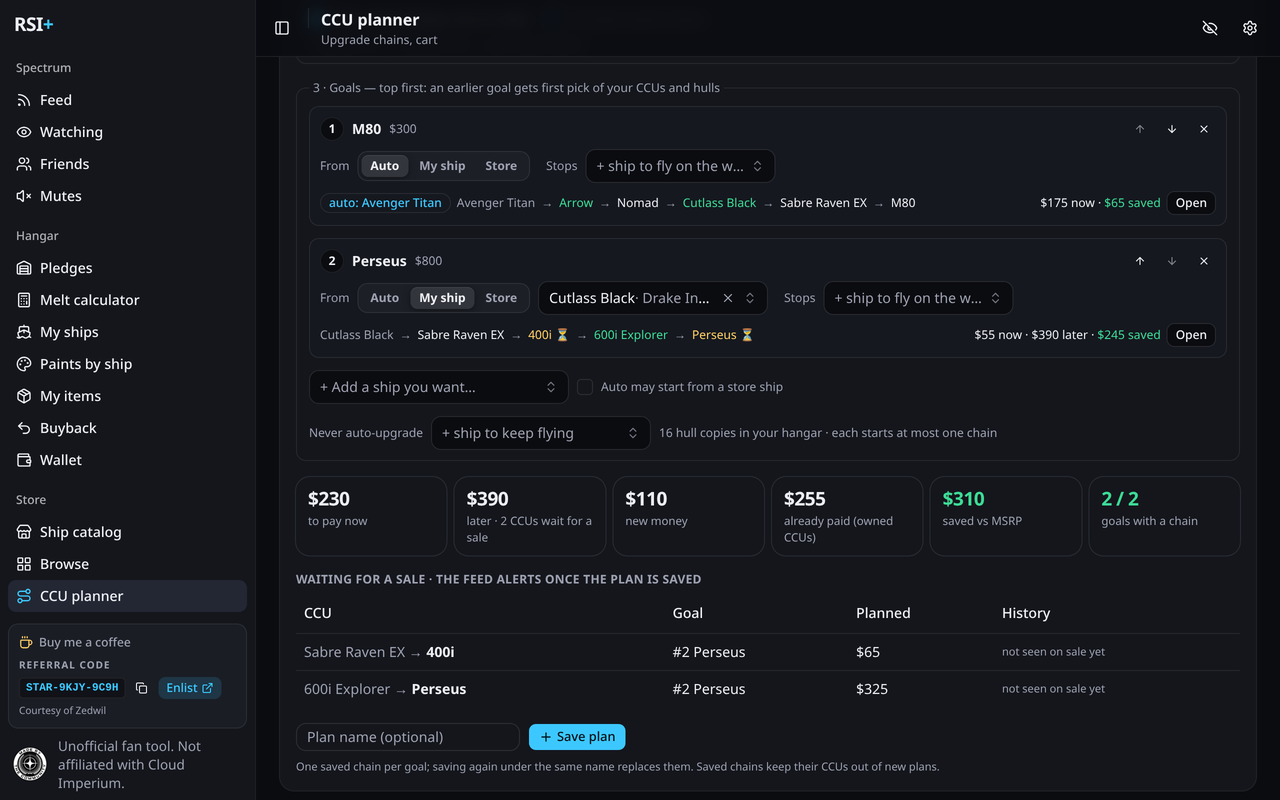
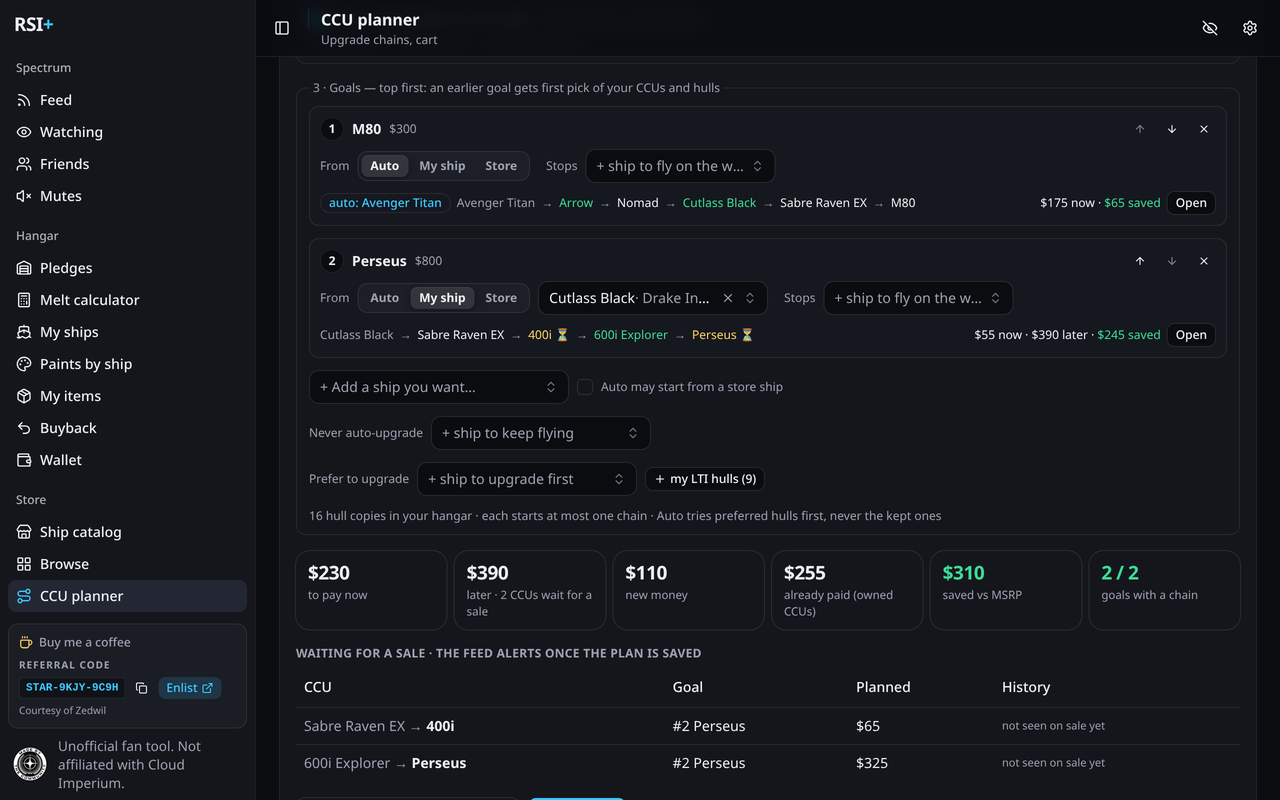
feat(ccu): Kraken, Javelin, Idris-M as plannable hulls (wiki MSRP); fleet plan prefer-to-upgrade list with LTI shortcut

diff --git a/src/components/CcuFleet.svelte b/src/components/CcuFleet.svelte
@@ -27,6 +27,7 @@
     ships,
     mine,
     hulls,
+    lti = [],
     owned,
     opt,
     sales,
@@ -39,6 +40,8 @@
     mine: CatalogShip[];
     /** Hull copies you own (`ownedHulls`). */
     hulls: { id: number; count: number }[];
+    /** Hulls you own on an LTI pledge — offered as "prefer" in one click (LTI tokens). */
+    lti?: number[];
     owned: OwnedCcu[];
     /** Planner options (objective, warbond, buyback…, saved-chain exclusions) shared with the single planner. */
     opt: PlanOptions;
@@ -51,24 +54,26 @@
 
   let goals = $state<Goal[]>([]);
   let keep = $state<number[]>([]);
+  let prefer = $state<number[]>([]);
   let storeStart = $state(false);
   let loaded = $state(false);
   $effect(() => {
     ccuGoalsItem.getValue().then((v) => {
       goals = v.goals;
       keep = v.keep;
+      prefer = v.prefer ?? [];
       storeStart = v.storeStart;
       loaded = true;
     });
   });
   $effect(() => {
-    const v = { goals: $state.snapshot(goals), keep: $state.snapshot(keep), storeStart };
+    const v = { goals: $state.snapshot(goals), keep: $state.snapshot(keep), prefer: $state.snapshot(prefer), storeStart };
     if (loaded) ccuGoalsItem.setValue(v);
   });
 
   const byId = $derived(new Map(ships.map((s) => [s.id, s])));
   const name = (id: number | null) => (id == null ? 'Auto' : id === STORE_START ? 'Store' : (byId.get(id)?.name ?? `#${id}`));
-  const fleet = $derived(planFleet(ships, owned, goals, opt, { hulls, keep, storeStart }));
+  const fleet = $derived(planFleet(ships, owned, goals, opt, { hulls, keep, prefer, storeStart }));
   const payNow = $derived(fleet.total - fleet.later);
   /** Every CCU the plan waits for, cheapest first: hull, which goal, planned cost, when last seen on sale. */
   const waiting = $derived(
@@ -107,7 +112,12 @@
     edit(i, { fromId: s === 'auto' ? null : s === 'store' ? STORE_START : (mine.find((m) => m.msrp < (byId.get(g.targetId)?.msrp ?? 0))?.id ?? mine[0]?.id ?? null) });
   }
   const sortedShips = $derived([...ships].sort((a, b) => a.name.localeCompare(b.name)));
+  // A hull is in at most one of the two lists: adding it to one takes it out of the other.
   const keepable = $derived(mine.filter((m) => !keep.includes(m.id)));
+  const preferable = $derived(mine.filter((m) => !prefer.includes(m.id)));
+  const addKeep = (id: number) => ((keep = [...keep, id]), (prefer = prefer.filter((x) => x !== id)));
+  const addPrefer = (ids: number[]) => ((prefer = [...new Set([...prefer, ...ids])]), (keep = keep.filter((x) => !ids.includes(x))));
+  const ltiToAdd = $derived(lti.filter((id) => !prefer.includes(id) && mine.some((m) => m.id === id)));
 
   // ---- save ----
   let planName = $state('');
@@ -205,9 +215,17 @@
       {#each keep as k (k)}
         <Badge variant="secondary" class="gap-1 pr-0.5">{name(k)}<Button variant="ghost" size="icon-xs" class="size-4" aria-label={`Allow ${name(k)}`} onclick={() => (keep = keep.filter((x) => x !== k))}><X /></Button></Badge>
       {/each}
-      <div class="w-[220px]"><ShipSelect ships={keepable} mine={keepable} onlyMine bind:value={() => picks.keep ?? null, (v) => (picks.keep = v)} price={false} onpick={(id) => (id != null && (keep = [...keep, id]), (picks.keep = null))} ariaLabel="Ship to keep" placeholder="+ ship to keep flying" /></div>
-      <span class="text-muted-foreground">{hulls.reduce((n, h) => n + h.count, 0)} hull copies in your hangar · each starts at most one chain</span>
+      <div class="w-[220px]"><ShipSelect ships={keepable} mine={keepable} onlyMine bind:value={() => picks.keep ?? null, (v) => (picks.keep = v)} price={false} onpick={(id) => (id != null && addKeep(id), (picks.keep = null))} ariaLabel="Ship to keep" placeholder="+ ship to keep flying" /></div>
     </div>
+    <div class="flex flex-wrap items-center gap-2 text-xs">
+      <span class="text-muted-foreground" title="Auto upgrades one of these first whenever it gets to the target — cheap LTI tokens, ships you don't fly">Prefer to upgrade</span>
+      {#each prefer as k (k)}
+        <Badge variant="secondary" class="text-success gap-1 pr-0.5">{name(k)}<Button variant="ghost" size="icon-xs" class="size-4" aria-label={`Stop preferring ${name(k)}`} onclick={() => (prefer = prefer.filter((x) => x !== k))}><X /></Button></Badge>
+      {/each}
+      <div class="w-[220px]"><ShipSelect ships={preferable} mine={preferable} onlyMine bind:value={() => picks.prefer ?? null, (v) => (picks.prefer = v)} price={false} onpick={(id) => (id != null && addPrefer([id]), (picks.prefer = null))} ariaLabel="Ship to upgrade first" placeholder="+ ship to upgrade first" /></div>
+      {#if ltiToAdd.length}<Button variant="outline" size="xs" onclick={() => addPrefer(ltiToAdd)} title={ltiToAdd.map((id) => name(id)).join(', ')}><Plus /> my LTI hulls ({ltiToAdd.length})</Button>{/if}
+    </div>
+    <span class="text-muted-foreground text-xs">{hulls.reduce((n, h) => n + h.count, 0)} hull copies in your hangar · each starts at most one chain · Auto tries preferred hulls first, never the kept ones</span>
   </fieldset>
 
   {#if goals.length}

diff --git a/src/components/CcuPanel.svelte b/src/components/CcuPanel.svelte
@@ -93,6 +93,8 @@
   const byId = $derived(new Map(ships.map((s) => [s.id, s])));
   const mine = $derived(ownedShips(hangar?.pledges ?? [], ships));
   const hulls = $derived(ownedHulls(hangar?.pledges ?? [], ships));
+  /** Hulls on LTI pledges (LTI tokens): one click to prefer them in a fleet plan. */
+  const ltiHulls = $derived(ownedHulls((hangar?.pledges ?? []).filter((p) => p.lti), ships).map((h) => h.id));
   let stopPick = $state<number | null>(null);
   const sortedShips = $derived([...ships].sort((a, b) => a.name.localeCompare(b.name)));
   const ccus = $derived(ownedCcus(hangar?.pledges ?? [], buyback?.items ?? [], ships));
@@ -222,7 +224,7 @@
   function link(s: Step): string | null {
     if (s.kind === 'owned' && hangar && s.ref != null) return hangarUrl(hangar.pledges, s.ref);
     if (s.kind === 'buyback' && s.ref != null) return buybackUrl.get(s.ref) ?? null;
-    if (s.kind === 'standalone' || s.kind === 'future') return byId.get(s.toId)?.link ?? null;
+    if (s.kind === 'standalone' || s.kind === 'future') return byId.get(s.toId)?.msrpSource ? null : (byId.get(s.toId)?.link ?? null);
     return UPGRADES;
   }
   const forceOf = (ref: number): 'include' | 'exclude' | '' => (opt.include.includes(ref) ? 'include' : opt.exclude.includes(ref) ? 'exclude' : '');
@@ -424,7 +426,7 @@
       </fieldset>
 
       {#if planner === 'fleet'}
-        <CcuFleet {ships} {mine} {hulls} owned={ccus.owned} opt={effective} {sales} {chains} {persist} onopen={openGoal} />
+        <CcuFleet {ships} {mine} {hulls} lti={ltiHulls} owned={ccus.owned} opt={effective} {sales} {chains} {persist} onopen={openGoal} />
       {:else}
       <div class="flex flex-wrap gap-4">
         <fieldset class="border-border m-0 grid min-w-0 flex-[1_1_300px] gap-2 rounded-lg border px-3 py-2.5">
@@ -467,7 +469,7 @@
         {:else}
           {#if planned.ahead}
             <p class="border-warning/40 bg-warning/10 m-0 rounded-lg border px-3 py-2 text-sm">
-              <strong>Planned ahead.</strong> Nothing on sale today gets to the {name(toId)} — {byId.get(toId)?.ccu.length ? 'its CCUs are sold out or excluded' : 'RSI sells no CCU to it right now'}{byId.get(toId)?.flyable === 'Concept' ? ' (concept ship: CCUs and sales come with events)' : ''}. Steps marked <em>Later</em> are priced at MSRP, to buy when the CCU returns ({seen(toId)}). Save the chain and the Feed tells you when it is in the store.
+              <strong>Planned ahead.</strong> Nothing on sale today gets to the {name(toId)} — {byId.get(toId)?.msrpSource ? `RSI's upgrade catalog doesn't list it at all (MSRP ${usd(byId.get(toId)?.msrp ?? 0)} from starcitizen.tools; RSI sells it in rare packages / events)` : byId.get(toId)?.ccu.length ? 'its CCUs are sold out or excluded' : 'RSI sells no CCU to it right now'}{byId.get(toId)?.flyable === 'Concept' ? ' (concept ship: CCUs and sales come with events)' : ''}. Steps marked <em>Later</em> are priced at MSRP, to buy when the CCU returns ({seen(toId)}). Save the chain and the Feed tells you when it is in the store.
             </p>
           {/if}
           <div class="grid grid-cols-[repeat(auto-fit,minmax(150px,1fr))] gap-2">

diff --git a/tests/ccu.test.ts b/tests/ccu.test.ts
@@ -1,6 +1,6 @@
 import { describe, expect, it } from 'vitest';
 import { chainEvents, DEFAULT_PLAN_OPTIONS, ownedCcus, ownedHulls, ownedShips, plan, planFleet, reservedRefs, STORE_START, type OwnedCcu, type PlanOptions, type SavedChain } from '@/lib/ccu';
-import { lastSale, lowestOffer, matchShip, recordSales, wishlistEvents, type CatalogShip, type Sku } from '@/lib/store';
+import { lastSale, lowestOffer, matchShip, recordSales, wishlistEvents, withExtraShips, type CatalogShip, type Sku } from '@/lib/store';
 
 const sku = (title: string, price: number, extra: Partial<Sku> = {}): Sku => ({ id: price, title, price, available: true, stock: null, ...extra });
 const ship = (id: number, name: string, msrp: number, ccu: Sku[] = [], standalone: Sku[] = []): CatalogShip => ({
@@ -251,5 +251,27 @@ describe('plan ahead (long-term goals)', () => {
     expect(f.legs[0]!.plan!.steps.at(-1)).toMatchObject({ toId: 6, kind: 'future' });
     expect(f.legs[1]).toMatchObject({ ahead: false }); // on sale today → no waiting
     expect(f.legs[1]!.plan!.waits).toBe(0);
+  });
+
+  it('fleet plan: auto upgrades a preferred hull (LTI token) first, even when another saves more', () => {
+    const goals = [{ id: 'd', fromId: null, targetId: 4, via: [] }];
+    const hulls = [{ id: 1, count: 1 }, { id: 2, count: 1 }];
+    const free = planFleet(ships, [], goals, o({ warbond: false }), { hulls });
+    const pref = planFleet(ships, [], goals, o({ warbond: false }), { hulls, prefer: [2] });
+    expect(pref.legs[0]!.startId).toBe(2);
+    expect(free.legs[0]!.plan).not.toBeNull();
+    // a preferred hull that can't get there is skipped, not forced
+    const up = planFleet(ships, [], [{ id: 'b', fromId: null, targetId: 2, via: [] }], o({}), { hulls: [{ id: 1, count: 1 }, { id: 3, count: 1 }], prefer: [3] });
+    expect(up.legs[0]!.startId).toBe(1);
+  });
+
+  it('extra hulls RSI does not list (Kraken, Javelin) join the catalog and plan ahead', () => {
+    const all = withExtraShips(ships);
+    const kraken = all.find((s) => s.name === 'Kraken')!;
+    expect(kraken).toMatchObject({ msrp: 165000, msrpSource: 'wiki' });
+    expect(withExtraShips([...ships, { ...kraken, id: 999, msrpSource: undefined }]).filter((s) => s.name === 'Kraken')).toHaveLength(1);
+    expect(matchShip('Kraken Privateer', all)?.name).toBe('Kraken Privateer');
+    const p = plan(all, [], 4, kraken.id, o({ planAhead: true }))!;
+    expect(p.steps.at(-1)).toMatchObject({ toId: kraken.id, kind: 'future', cost: 165000 - 24000 });
   });
 });

diff --git a/src/lib/ccu.ts b/src/lib/ccu.ts
@@ -317,6 +317,8 @@ export interface FleetOptions {
   hulls: { id: number; count: number }[];
   /** Hulls an auto goal never upgrades (ones you want to keep flying). */
   keep?: number[];
+  /** Hulls an auto goal upgrades first when one of them gets there (cheap LTI tokens, ships you don't fly). */
+  prefer?: number[];
   /** An auto goal may start by buying a ship from the store. */
   storeStart?: boolean;
 }
@@ -347,14 +349,19 @@ export function planFleet(ships: CatalogShip[], owned: OwnedCcu[], goals: Goal[]
     const cands = goal.fromId != null ? [goal.fromId] : [...free].filter(([id, n]) => n > 0 && !keep.has(id) && (byId.get(id)?.msrp ?? Infinity) < (target?.msrp ?? 0)).map(([id]) => id);
     if (goal.fromId == null && fo.storeStart) cands.push(STORE_START);
     // Today's sales first; only when no source gets there, plan ahead (waiting for the target's CCU to return).
-    for (const pass of o.planAhead ? [o] : [o, { ...o, planAhead: true }]) {
-      for (const c of cands) {
-        const p = plan(ships, owned, c, goal.targetId, pass);
-        if (p && (!best || better(p, best))) (best = p), (startId = c);
-      }
-      if (best) {
-        ahead = pass !== o;
-        break;
+    // Within a pass, preferred hulls first: the best of them wins over any other hull.
+    const pref = new Set(fo.prefer ?? []);
+    const groups = [cands.filter((c) => pref.has(c)), cands.filter((c) => !pref.has(c))];
+    search: for (const pass of o.planAhead ? [o] : [o, { ...o, planAhead: true }]) {
+      for (const group of groups) {
+        for (const c of group) {
+          const p = plan(ships, owned, c, goal.targetId, pass);
+          if (p && (!best || better(p, best))) (best = p), (startId = c);
+        }
+        if (best) {
+          ahead = pass !== o;
+          break search;
+        }
       }
     }
     if (goal.fromId == null && best && startId != null && startId !== STORE_START) free.set(startId, free.get(startId)! - 1);

diff --git a/src/lib/settings.ts b/src/lib/settings.ts
@@ -94,8 +94,8 @@ export const hangarItem = storage.defineItem<{ at: number; pledges: Pledge[]; co
 export const buybackItem = storage.defineItem<{ at: number; items: BuybackItem[]; complete?: boolean; page?: number } | null>(acct('local:buyback'), { fallback: null });
 /** Saved CCU chains (planner): the CCUs they use are kept out of new plans when *Exclude saved chains* is on. */
 export const ccuChainsItem = storage.defineItem<SavedChain[]>(acct('local:ccuChains'), { fallback: [] });
-/** Fleet plan (CCU planner, several goals): the goals in priority order, hulls never auto-upgraded, store start allowed. */
-export const ccuGoalsItem = storage.defineItem<{ goals: Goal[]; keep: number[]; storeStart: boolean }>(acct('local:ccuGoals'), { fallback: { goals: [], keep: [], storeStart: false } });
+/** Fleet plan (CCU planner, several goals): the goals in priority order, hulls never / preferably auto-upgraded, store start allowed. */
+export const ccuGoalsItem = storage.defineItem<{ goals: Goal[]; keep: number[]; prefer?: number[]; storeStart: boolean }>(acct('local:ccuGoals'), { fallback: { goals: [], keep: [], prefer: [], storeStart: false } });
 /** Pledge-store ship catalog + on-sale SKUs (public data), refreshed by the background. */
 export const catalogItem = storage.defineItem<Catalog | null>('local:catalog', { fallback: null });
 /** Per ship: when it was last seen on sale (CCU / standalone), stamped on every catalog refresh since install. */

diff --git a/src/lib/store.ts b/src/lib/store.ts
@@ -10,6 +10,7 @@
  */
 import { token } from './api';
 import { SPECTRUM_ORIGIN } from './types';
+import { EXTRA_SHIPS } from './data/extra-ships';
 
 export interface Sku {
   id: number;
@@ -35,6 +36,8 @@ export interface CatalogShip {
   standalone: Sku[];
   /** CCU target SKUs on sale right now (Standard / Warbond / limited). */
   ccu: Sku[];
+  /** `wiki`: a hull RSI's upgrade catalog doesn't list (Kraken, Javelin…), MSRP from starcitizen.tools (`EXTRA_SHIPS`). */
+  msrpSource?: 'wiki';
 }
 
 export interface Catalog {
@@ -126,7 +129,13 @@ export async function fetchCatalog(): Promise<Catalog> {
       if (s) s.ccu = t.skus.map(sku).filter((k) => k.available);
     }
   }
-  return { at: Date.now(), ships };
+  return { at: Date.now(), ships: withExtraShips(ships) };
+}
+
+/** Add the hulls RSI's upgrade catalog never lists (`EXTRA_SHIPS`) unless it lists that name itself. */
+export function withExtraShips(ships: CatalogShip[]): CatalogShip[] {
+  const have = new Set(ships.map((s) => shipKey(s.name)));
+  return [...ships, ...EXTRA_SHIPS.filter((x) => !have.has(shipKey(x.name)) && !ships.some((s) => s.id === x.id)).map((x) => ({ ...x, standalone: [], ccu: [] }))];
 }
 
 export const isWarbondSku = (k: Pick<Sku, 'title'>) => /warbond/i.test(k.title);

diff --git a/src/lib/data/extra-ships.ts b/src/lib/data/extra-ships.ts
@@ -1,0 +1,28 @@
+/**
+ * Hulls RSI's upgrade catalog (`initShipUpgrade`) never lists — sold only as rare standalone / event packages, never
+ * as a CCU target — so the planner and catalog would not know them. MSRPs are their pledge cost on starcitizen.tools
+ * (checked 2026-10-16; the Star Citizen Wiki API agrees for Javelin and Idris-M and has no price for the Kraken).
+ * Ids are negative so they never collide with RSI's; `fetchCatalog` adds one only when RSI doesn't list that name.
+ */
+import type { CatalogShip } from '../store';
+
+const extra = (id: number, name: string, manufacturer: string, focus: string, usd: number, flyable: string): CatalogShip => ({
+  id,
+  name,
+  manufacturer,
+  focus,
+  msrp: usd * 100,
+  flyable,
+  link: `https://starcitizen.tools/${name.replace(/ /g, '_')}`,
+  thumb: null,
+  standalone: [],
+  ccu: [],
+  msrpSource: 'wiki',
+});
+
+export const EXTRA_SHIPS: CatalogShip[] = [
+  extra(-9001, 'Kraken', 'Drake Interplanetary', 'Light Carrier', 1650, 'Concept'),
+  extra(-9002, 'Kraken Privateer', 'Drake Interplanetary', 'Light Carrier', 2420, 'Concept'),
+  extra(-9003, 'Javelin', 'Aegis Dynamics', 'Destroyer', 3000, 'Concept'),
+  extra(-9004, 'Idris-M', 'Aegis Dynamics', 'Frigate', 1000, 'Flight Ready'),
+];

diff --git a/src/entrypoints/background.ts b/src/entrypoints/background.ts
@@ -24,7 +24,7 @@ import {
 } from '@/lib/settings';
 import { ding } from '@/lib/sound';
 import { chainEvents } from '@/lib/ccu';
-import { fetchCatalog, fetchPaints, recordSales, wishlistEvents, type Catalog, type PaintCatalog } from '@/lib/store';
+import { fetchCatalog, fetchPaints, recordSales, wishlistEvents, withExtraShips, type Catalog, type PaintCatalog } from '@/lib/store';
 import { threadUrl } from '@/lib/types';
 import { channelEvents, friendEvents, keywordsFor, mergeEvents, threadEvents, type FeedEvent } from '@/lib/watch';
 
@@ -301,7 +301,7 @@ let catalogPromise: Promise<Catalog> | null = null;
 /** Public pledge-store catalog; cached 30 min unless `fresh`. */
 async function catalog(fresh: boolean): Promise<Catalog> {
   const cached = await catalogItem.getValue();
-  if (!fresh && cached && Date.now() - cached.at < 30 * 60_000) return cached;
+  if (!fresh && cached && Date.now() - cached.at < 30 * 60_000) return { ...cached, ships: withExtraShips(cached.ships) };
   catalogPromise ??= fetchCatalog()
     .then(async (c) => {
       await catalogItem.setValue(c);

diff --git a/src/components/ShipSelect.svelte b/src/components/ShipSelect.svelte
@@ -31,7 +31,7 @@
   const opt = (s: CatalogShip, group?: string): Option<number> => ({
     value: s.id,
     label: s.name,
-    sublabel: [s.manufacturer, price && s.msrp ? usd(s.msrp) : '', saleTag && !s.ccu.some((k) => k.available) && !s.standalone.some((k) => k.available) ? (s.flyable === 'Concept' ? 'concept · not on sale' : 'not on sale') : ''].filter(Boolean).join(' · '),
+    sublabel: [s.manufacturer, price && s.msrp ? usd(s.msrp) : '', saleTag && !s.ccu.some((k) => k.available) && !s.standalone.some((k) => k.available) ? (s.msrpSource ? 'not in RSI CCU list · MSRP via wiki' : s.flyable === 'Concept' ? 'concept · not on sale' : 'not on sale') : ''].filter(Boolean).join(' · '),
     group,
   });
   const options = $derived.by(() => {

diff --git a/docs/architecture.md b/docs/architecture.md
@@ -119,6 +119,13 @@ Manifest `incognito: 'split'`: incognito windows get their own background worker
   - When `plan()` with today's sales returns null and `planAhead` is off, the single planner re-plans with `planAhead: true` (`planned.ahead`, notice above the stats). The chain is saved with those options.
   - `planFleet` does the same per goal: its second pass is tried only when no candidate source works with today's sales, so a buyable-now chain always wins. That sets `FleetLeg.ahead`.
   - `ShipSelect saleTag` tags hulls with no available CCU / standalone SKU.
+- **Extra hulls** (`src/lib/data/extra-ships.ts`): `EXTRA_SHIPS` covers Kraken, Kraken Privateer, Javelin and Idris-M.
+  - Negative ids, `msrpSource: 'wiki'`, starcitizen.tools pledge cost, link to the wiki page.
+  - `withExtraShips` adds them in `fetchCatalog` and on the background's cached catalog, unless RSI lists the name itself.
+  - They have no SKUs, so they only appear as `future` targets. The planner shows no store link for them.
+- **Fleet `prefer`**: auto candidates are tried in two groups, preferred hulls first, within each pass (today's sales, then plan ahead). So a preferred hull that gets there beats any other hull, but never beats buying today vs waiting.
+  - `ccuGoals.prefer` is stored next to `keep`.
+  - *+ my LTI hulls* = `ownedHulls` of LTI pledges.
 - Not done: speculative prices (needs a price-history store), k-best alternatives, a sale calendar, a global optimum over goal order.
 ## Items (`src/lib/items.ts`)
 - Flattens `Pledge.items` → `ItemRow` (merged by category + title, with pledges and ×count). Categories from RSI item kinds (Ship, Skin, FPS Equipment → armor/weapon/fps by title, Component, Hangar decoration, Hangar, Insurance) + titles (Digital Download = game, paint/livery).

diff --git a/docs/changelog.md b/docs/changelog.md
@@ -6,6 +6,8 @@ updated: 2026-10-13
 # Changelog
 
 ## Unreleased
+- **Kraken, Kraken Privateer, Javelin and Idris-M in the planner and Ship catalog.** RSI's upgrade catalog never lists them; they're sold only in rare packages and events. RSI+ now adds them with their pledge cost from starcitizen.tools ($1,650 / $2,420 / $3,000 / $1,000), so they can be CCU goals (planned ahead at MSRP) and hangar copies match. They're tagged *not in RSI CCU list · MSRP via wiki*. Concept hulls RSI does list (Galaxy, Nautilus, Orion, Pioneer…) are plannable the same way.
+- **Fleet plan: *Prefer to upgrade*.** The counterpart of *Never auto-upgrade*: Auto upgrades one of these hulls first whenever it reaches the goal, such as cheap LTI tokens or ships you don't fly. *+ my LTI hulls* adds every hull on an LTI pledge in one click. A hull sits in only one of the two lists.
 - **CCU planner: ships nothing sells today.** Pick an Orion, an Arrastra or any concept / event-only hull as the target and you get a chain anyway. When nothing on sale today reaches it, the planner plans ahead automatically, with a notice saying why and when the hull was last seen on sale. *Plan ahead* no longer has to be turned on first. Fleet-plan goals do the same and are marked *planned ahead*. The target pickers tag such hulls *not on sale* / *concept · not on sale*.
 - **CCU fleet plan.** The planner has a *Fleet plan* mode for long-term goals.
   - **Goals:** add every ship you want, near-term and long-term, in priority order. Each goal has a source (*Auto*, *My ship* or *Store*), optional *stops* (ships to fly on the way), and its own chain.
